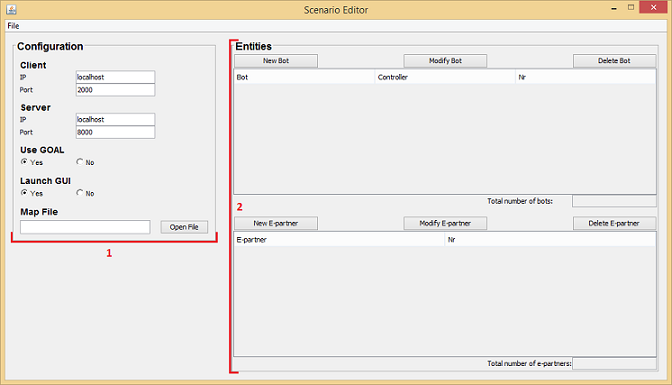
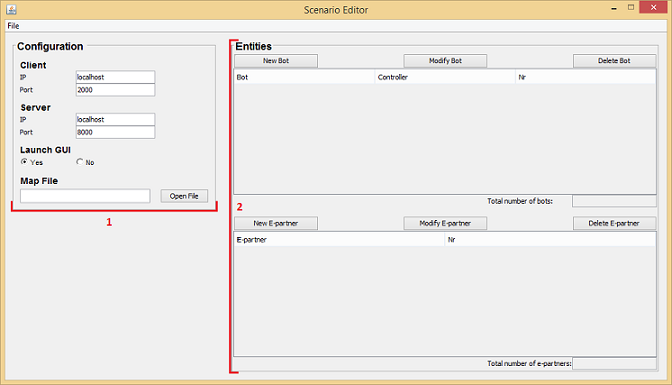
Updated

Changed region(s): [[0.0, 0.4364, 0.3438, 0.6545], [0.0312, 0.374, 0.125, 0.4052]]

diff --git a/doc/ScenarioGUI/Scenario Editor.tex b/doc/ScenarioGUI/Scenario Editor.tex
@@ -16,10 +16,10 @@
 This document describes how to make use of the Scenario Editor (Figure 1). When you open the editor, you see two main parts:
 \begin{enumerate}
 \item The Configuration panel, which is used to create, open and save configuration files.
-\item The Entity panel, where a list of the bots and a list of e-partners are being displayed. Here you can create, modify, rename and delete bots and e-partners.
+\item The Entity panel, where a list of bots and a list of e-partners are being displayed. Here you can create, modify, rename and delete bots and e-partners.
 \end{enumerate}
 
-\begin{figure}
+\begin{figure}[h]
 \includegraphics{editor.png}
 \caption{Scenario Editor}
 \end{figure}
@@ -27,13 +27,13 @@ This document describes how to make use of the Scenario Editor (Figure 1). When 
 \section{General use}
 At the top of the editor you can see a $File$ menu. If you click on that, you get the options to create a new configuration, save your configuration, open a configuration and to exit the editor.
 
-On the left side of the editor you can configure a scenario as you like. The Client IP, the Client Port, the Server IP and the Server Port should already contain the default values. You can change them if you need to. You can also indicate whether you want to make use of GOAL and/or open a GUI. If you have a Map file you want to use, you can import it by selecting the $Open$ $file$ buttons at the right section.
+On the left side of the editor you can configure a scenario as you like. The Client IP, the Client Port, the Server IP and the Server Port should already contain the default values. You can change them if you need to. You can also indicate whether you want to open a GUI. If you have a Map file you want to use, you can import it by selecting the $Open$ $file$ buttons at the right section.
 
-On the right side of the editor you can create, modify, rename and delete bots. There also are a list of bots and a list of e-partners that are created, and on below each list there is an indication of how many bots or e-partners are created.
+On the right side of the editor you can create, modify, rename and delete bots and e-partners. There also are a list of bots and a list of e-partners that are created, and below each list there is an indication of how many bots or e-partners are created in total.
 \pagebreak
 \section{Configuration Panel}
 A picture of the configuration panel can be found in figure 2.
-\begin{figure}
+\begin{figure}[h]
 \begin{center}
 \includegraphics{config.png}
 \end{center}
@@ -43,14 +43,17 @@ A picture of the configuration panel can be found in figure 2.
 To create a new configuration file, select $File$ $\to$ $New$ in the menu bar. You will now get a new configuration with the default values. Creating a new configuration will reset all previous changes you have made, so make sure you save your configuration first if you want to want to keep it.
 
 \subsection{Save configuration file}
-To save your configuration file, select $File$ $\to$ $Save$ in the menu bar. A screen will pop up where you can select the folder you want to save the file to. Once you have selected the right folder, click the $Save$ button.
+To save your configuration file, select $File$ $\to$ $Save$ in the menu bar. If your file hasn't been saved before, a screen will pop up where you can select the folder and enter the file you want to save the file to. Once you have selected the right folder and entered the file name, click the $Save$ button.
+
+\subsection{Save configuration file as}
+To save your configuration in a new file, select $File$ $\to$ $Save$ $As$ in the menu bar. A screen will pop up where you can select the folder and enter the file you want to save the file to. Once you have selected the right folder and entered the file name, click the $Save$ button.
 
 \subsection{Open configuration file}
 To open an existing configuration file, select $File$ $\to$ $Open$ in the menu bar. A screen will pop up where you can select the folder where the configuration file is saved to. Once you have selected the right folder, select the file and click the $Open$ button.
-\pagebreak
+
 \section{Entity Panel}
 The entity panel exists of 2 parts; the top part shows the bot options and the bottom part shows the e-partner options. A picture of the entity panel can be found in figure 3.
-\begin{figure}
+\begin{figure}[h]
 \begin{center}
 \includegraphics{bot.png}
 \end{center}
@@ -60,13 +63,13 @@ The entity panel exists of 2 parts; the top part shows the bot options and the b
 To create a new bot, click the $New$ $Bot$ button. A new bot will appear in the list.%The Bot Store will open in a new window where you can create your bot.
 
 \subsection{Modify bot}
-To modify a bot, select the bot you want to modify in the bot list and click the $Modify$ $Bot$ button. The bot store will open in a new window where you can modify your bot.
+To modify a bot, select the bot you want to modify in the bot list and click the $Modify$ $Bot$ button. The Bot Store will open in a new window where you can modify your bot.
 
 \subsection{Change controller type}
-To change how a bot is controlled, you can either use the $Modify$ $Bot$ button, or you can change it in the scenario editor. To change the controller type in the scenario editor, select the bot you want to change and double click. You should now be able to enter a new controller.
+To change how a bot is controlled, you can either use the $Modify$ $Bot$ button to change it in the Bot Store, or you can change it in the scenario editor. To change the controller type in the scenario editor, select the bot you want to change and double click. You should now be able to enter a new controller.
 
 \subsection{Rename bot}
-To rename a bot, you can either use the $Modify$ $Bot$ button, or you can change it in the scenario editor. To rename in the scenario editor, select the bot you want to rename in the list with bots. Double click the bot's name and enter a new name. %Enter the new name in the textfield above the $Rename$ $bot$ button and click the $Rename$ $bot$ button.
+To rename a bot, you can either use the $Modify$ $Bot$ button to change it in the Bot Store, or you can change it in the scenario editor. To rename in the scenario editor, select the bot you want to rename in the list with bots. Double click the bot's name and enter a new name. %Enter the new name in the textfield above the $Rename$ $bot$ button and click the $Rename$ $bot$ button.
 
 \subsection{Delete bot}
 To delete a bot, select the bot you want to delete in the list with bots and click the $Delete$ $Bot$ button.
@@ -75,7 +78,7 @@ To delete a bot, select the bot you want to delete in the list with bots and cli
 To create a new e-partner, click the $New$ $E-partner$ button. A new e-partner will appear in the list.%The Bot Store will open in a new window where you can create your bot.
 
 \subsection{Modify e-partner}
-To modify an e-partner, select the e-partner you want to modify in the e-partner list and click the $Modify$ $E-partner$ button. A new window will open where you can modify the e-partner.
+To modify an e-partner, select the e-partner you want to modify in the e-partner list and click the $Modify$ $E-partner$ button. A new window will open where you can modify the properties of the e-partner.
 
 \subsection{Rename e-partner}
 To rename an e-partner, select the e-partner you want to rename in the list with e-partners. Double click the e-partner's name and enter a new name. %Enter the new name in the textfield above the $Rename$ $bot$ button and click the $Rename$ $bot$ button.
